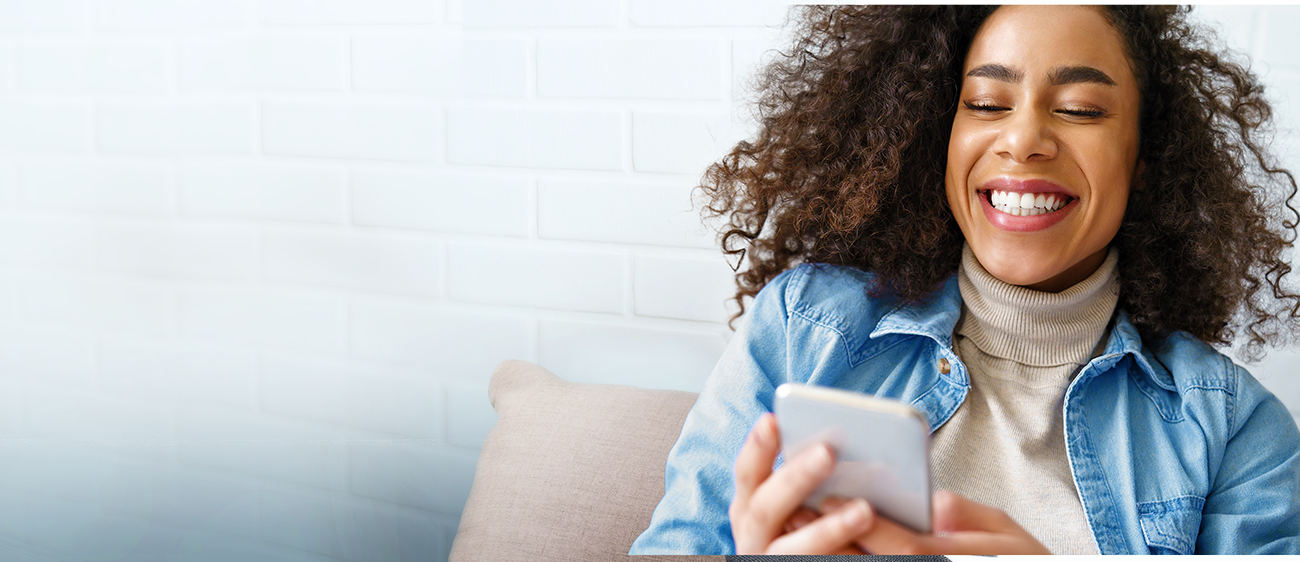
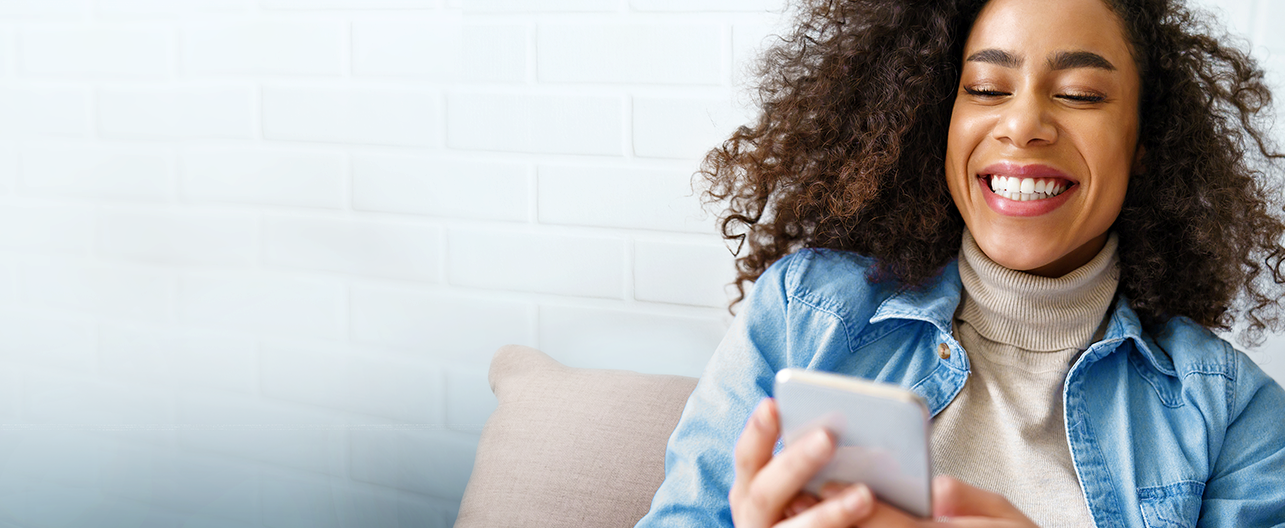
completed the hero section with responsive design

diff --git a/FirstBankVisa/firstBankVisa.html b/FirstBankVisa/firstBankVisa.html
@@ -4,37 +4,84 @@
     <meta charset="UTF-8" />
     <meta http-equiv="X-UA-Compatible" content="IE=edge" />
     <meta name="viewport" content="width=device-width, initial-scale=1.0" />
-    <link rel="stylesheet" href="./firstBankVisa.css">
+    <link rel="stylesheet" href="./firstBankVisa.css" />
     <title>FirstBank Visa® Debit Card</title>
   </head>
   <body>
-    <section>
+    <section class="heroContainer">
       <div>
-        <img src="" alt="" />
-        <h1>Safe and smart way to pay online.</h1>
-        <h1>For just about everything.</h1>
-        <h3>Your FirstBank Visa® Debit Card.</h3>
-        <img src="" alt="" />
+        <figure>
+          <img
+            src="../assets/images/Hero.png"
+            alt="Smiling woman looking at cell phone."
+            class="heroImage"
+          />
+        </figure>
+
+        <aside class="asideInfo">
+          <h1>Safe and smart way to pay online.</h1>
+          <h1>For just about everything.</h1>
+          <h3>Your FirstBank Visa® Debit Card.</h3>
+          <figure>
+            <img
+              class="visaImage"
+              src="../assets/images/Hero-CC.png"
+              alt="Visa Card"
+            />
+          </figure>
+        </aside>
       </div>
     </section>
-    <section>
-      <h3>For all your online spending today, rely on Visa Debit.</h3>
-      <p>
-        It's simple and safe to use your FirstBank Visa® Debit Card for the
-        purchases you make online and the bills you pay digitally. Make it your
-        go-to card for things like:
-      </p>
-    </section>
-    <section>
-        <div>
-            <!-- Cell phone bills -->
+    <section class="informationContainer">
+      <article class="articleRelyOn">
+        <h3>For all your online spending today, rely on Visa Debit.</h3>
+        <p class="relyOnText">
+          It's simple and safe to use your FirstBank Visa® Debit Card for the
+          purchases you make online and the bills you pay digitally. Make it
+          your go-to card for things like:
+        </p>
+      </article>
+      <article class="articleThingsToBuy">
+        <div class="thingToBuy">
+          <figure>
+            <img
+              class="iconTTB"
+              src="../assets/icons/icon-phone.png"
+              alt="cellphone"
+            />
+          </figure>
+          <h3 class="headerTTB">Cell phone bills</h3>
+          <h4 class="textTTB">
+            Take care of your monthly payments online with ease
+          </h4>
         </div>
-        <div>
-            <!-- Streaming services -->
+        <div class="thingToBuy">
+          <figure>
+            <img
+              class="iconTTB"
+              src="../assets/icons/icon-headphones.png"
+              alt="cellphone"
+            />
+          </figure>
+          <h3 class="headerTTB">Streaming services</h3>
+          <h4 class="textTTB">
+            Pay for subscriptions such as music, movies, and TV streaming
+          </h4>
         </div>
-        <div>
-            <!-- Utilities -->
+        <div class="thingToBuy">
+          <figure>
+            <img
+              class="iconTTB"
+              src="../assets/icons/icon-utilities.png"
+              alt="cellphone"
+            />
+          </figure>
+          <h3 class="headerTTB">Utilities</h3>
+          <h4 class="textTTB">
+            It's simple to pay utility bills online from water to electric
+          </h4>
         </div>
+      </article>
     </section>
     <section></section>
     <section></section>

diff --git a/FirstBankVisa/firstBankVisa.css b/FirstBankVisa/firstBankVisa.css
@@ -117,3 +117,155 @@ p {
   line-height: 125%;
   color: #2f2f2f;
 }
+
+.heroContainer {
+  width: 100%;
+  height: 40%;
+}
+.heroContainer div {
+  width: 100%;
+  height: 40%;
+  position: relative;
+}
+.heroContainer div figure .heroImage {
+  width: 100%;
+  object-fit: cover;
+  border-top: 15px solid orange;
+}
+.heroContainer div .asideInfo {
+  display: flex;
+  flex-direction: column;
+  justify-content: flex-start;
+  align-items: flex-start;
+  position: absolute;
+  background-color: transparent;
+  left: 4%;
+  top: 8%;
+}
+@media only screen and (max-width: 1100px) {
+  .heroContainer div .asideInfo {
+    top: 15%;
+  }
+}
+.heroContainer div .asideInfo h1 {
+  margin-bottom: 4%;
+}
+@media only screen and (max-width: 1100px) {
+  .heroContainer div .asideInfo h1 {
+    font-size: 2rem;
+  }
+}
+@media only screen and (max-width: 800px) {
+  .heroContainer div .asideInfo h1 {
+    font-size: 1.5rem;
+  }
+}
+@media only screen and (max-width: 575px) {
+  .heroContainer div .asideInfo h1 {
+    font-size: 1rem;
+  }
+}
+.heroContainer div .asideInfo h3 {
+  margin-top: 2%;
+}
+@media only screen and (max-width: 1100px) {
+  .heroContainer div .asideInfo h3 {
+    font-size: 1.5rem;
+  }
+}
+@media only screen and (max-width: 800px) {
+  .heroContainer div .asideInfo h3 {
+    font-size: 1rem;
+  }
+}
+@media only screen and (max-width: 575px) {
+  .heroContainer div .asideInfo h3 {
+    font-size: 0.75rem;
+  }
+}
+.heroContainer div .asideInfo figure .visaImage {
+  margin-top: 10%;
+}
+@media only screen and (max-width: 1100px) {
+  .heroContainer div .asideInfo figure .visaImage {
+    width: 200px;
+    height: auto;
+  }
+}
+@media only screen and (max-width: 800px) {
+  .heroContainer div .asideInfo figure .visaImage {
+    width: 150px;
+    height: auto;
+  }
+}
+@media only screen and (max-width: 575px) {
+  .heroContainer div .asideInfo figure .visaImage {
+    width: 100px;
+    height: auto;
+  }
+}
+
+.informationContainer {
+  display: flex;
+  flex-direction: column;
+  justify-content: center;
+  align-items: center;
+  width: 100%;
+  height: auto;
+}
+.informationContainer .articleRelyOn {
+  display: flex;
+  flex-direction: column;
+  justify-content: space-evenly;
+  align-items: center;
+  width: 60%;
+  height: auto;
+  text-align: center;
+  margin-top: 3%;
+}
+.informationContainer .articleRelyOn .relyOnText {
+  margin-top: 2%;
+}
+.informationContainer .articleThingsToBuy {
+  display: flex;
+  flex-direction: row;
+  justify-content: space-evenly;
+  align-items: center;
+  width: 80%;
+  height: auto;
+  text-align: center;
+}
+@media (max-width: 800px) {
+  .informationContainer .articleThingsToBuy {
+    display: flex;
+    flex-direction: column;
+    justify-content: space-evenly;
+    align-items: center;
+    width: 100%;
+    height: auto;
+  }
+}
+.informationContainer .articleThingsToBuy .thingToBuy {
+  display: flex;
+  flex-direction: column;
+  justify-content: flex-start;
+  align-items: center;
+  width: 100%;
+  height: auto;
+  margin: 5% 0%;
+}
+.informationContainer .articleThingsToBuy .thingToBuy figure {
+  width: 80px;
+  height: 80px;
+}
+.informationContainer .articleThingsToBuy .thingToBuy figure .iconTTB {
+  width: 100%;
+  height: 100%;
+}
+.informationContainer .articleThingsToBuy .thingToBuy .headerTTB {
+  margin-top: 2%;
+  margin-bottom: 1%;
+}
+.informationContainer .articleThingsToBuy .thingToBuy .textTTB {
+  width: 50%;
+}

diff --git a/FirstBankVisa/firstBankVisa.scss b/FirstBankVisa/firstBankVisa.scss
@@ -1,3 +1,106 @@
 @import "../sass/mixins";
 @import "../sass/reset";
 @import "../sass/layout.scss";
+
+.heroContainer {
+  @include dimensions(100%, 40%);
+  div {
+    @include dimensions(100%, 40%);
+    position: relative;
+    figure {
+      .heroImage {
+        width: 100%;
+        object-fit: cover;
+        border-top: 15px solid orange;
+      }
+    }
+    .asideInfo {
+      @include flex(column, flex-start, flex-start);
+      position: absolute;
+      background-color: transparent;
+      left: 4%;
+      top: 8%;
+      @media only screen and (max-width: 1100px) {
+        top: 15%;
+      }
+      h1 {
+        margin-bottom: 4%;
+        @media only screen and (max-width: 1100px) {
+          font-size: 2rem;
+        }
+        @media only screen and (max-width: 800px) {
+            font-size: 1.5rem;
+          }
+        @media only screen and (max-width: 575px) {
+          font-size: 1rem;
+        }
+      }
+      h3 {
+        margin-top: 2%;
+        @media only screen and (max-width: 1100px) {
+          font-size: 1.5rem;
+        }
+        @media only screen and (max-width: 800px) {
+            font-size: 1rem;
+          }
+        @media only screen and (max-width: 575px) {
+          font-size: 0.75rem;
+        }
+      }
+      figure {
+        .visaImage {
+          margin-top: 10%;
+          @media only screen and (max-width: 1100px) {
+            @include dimensions(200px, auto);
+          }
+          @media only screen and (max-width: 800px) {
+            @include dimensions(150px, auto);
+          }
+          @media only screen and (max-width: 575px) {
+            @include dimensions(100px, auto);
+          }
+        }
+      }
+    }
+  }
+}
+.informationContainer {
+  @include flex(column, center, center);
+  @include dimensions(100%, auto);
+  .articleRelyOn {
+    @include flex(column, space-evenly, center);
+    @include dimensions(60%, auto);
+    text-align: center;
+    margin-top: 3%;
+    .relyOnText {
+      margin-top: 2%;
+    }
+  }
+  .articleThingsToBuy {
+    @include flex(row, space-evenly, center);
+    @include dimensions(80%, auto);
+    text-align: center;
+    @include for-size(phone) {
+      @include flex(column, space-evenly, center);
+      @include dimensions(100%, auto);
+    }
+    .thingToBuy {
+      @include flex(column, flex-start, center);
+      @include dimensions(100%, auto);
+      margin: 5% 0%;
+      figure {
+        @include dimensions(80px, 80px);
+        .iconTTB {
+          @include dimensions(100%, 100%);
+        }
+      }
+      .headerTTB {
+        margin-top: 2%;
+        margin-bottom: 1%;
+      }
+      .textTTB {
+        width: 50%;
+      }
+    }
+  }
+}

diff --git a/sass/layout.scss b/sass/layout.scss
@@ -21,6 +21,7 @@
 $base-color: rgba(26, 31, 113, 255);
 $gray-color: rgba(47, 47, 47, 255);
 $black-color: rgba(21, 21, 21, 255);
+$orange: rgba(97.6, 64.3, 1.6, 255);
 
 // Base Layout
 body {
